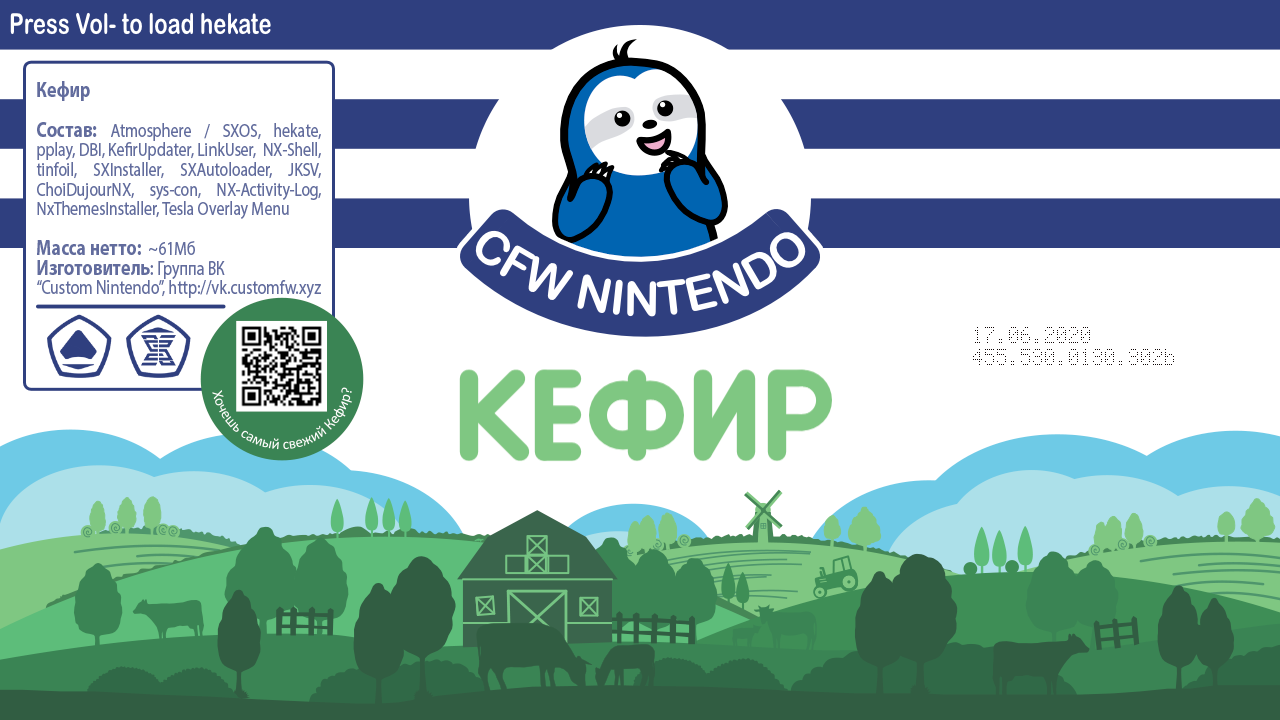
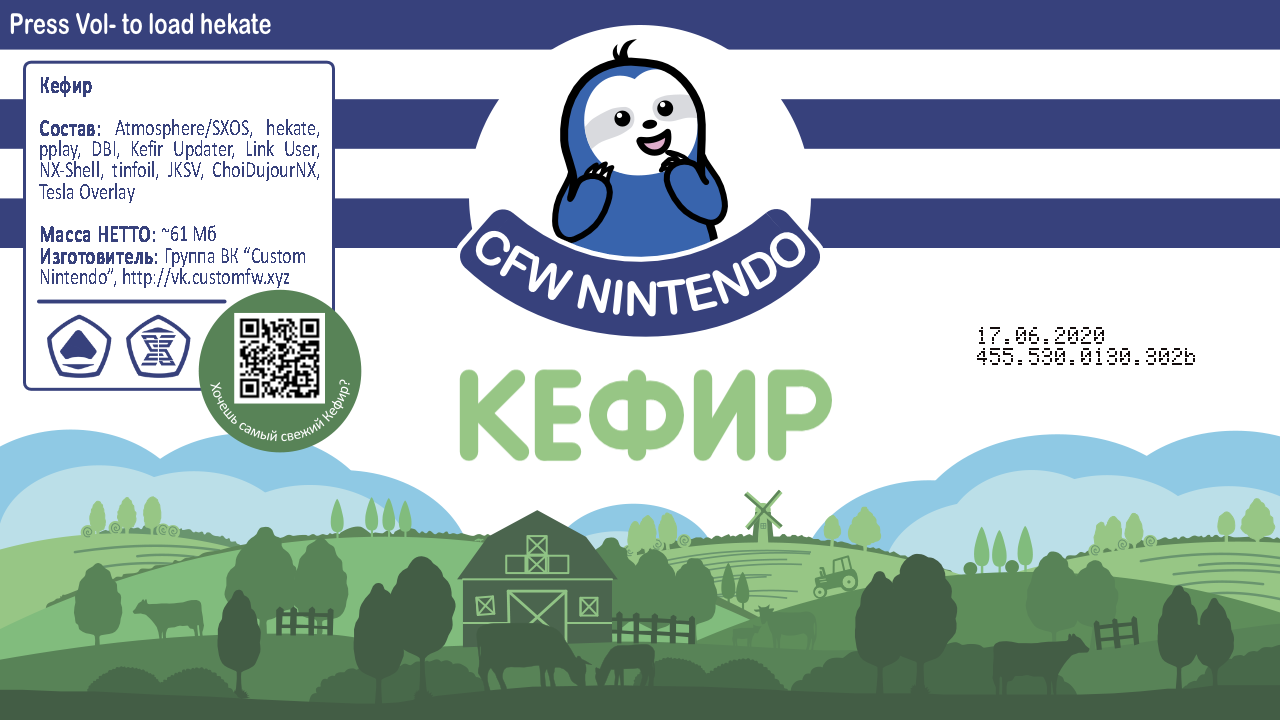
kefir455

diff --git a/kefir.html b/kefir.html
@@ -315,7 +315,7 @@ integrity="sha384-gfdkjb5BdAXd+lj+gudLWI+BXq4IuLW5IT+brZEZsLFm++aCMlF1V92rMkPaX4
 <nav class="toc">
     <header><h4 class="nav__title"><i class="fa fa-file-text"></i> Разделы</h4></header>
 <ul class="toc__menu" id="markdown-toc">
-  <li><a href="#kefir-453" id="markdown-toc-kefir-453">KEFIR 453</a>    <ul>
+  <li><a href="#kefir-455" id="markdown-toc-kefir-455">KEFIR 455</a>    <ul>
       <li><a href="#что-такое-кефир" id="markdown-toc-что-такое-кефир">Что такое кефир</a></li>
       <li><a href="#инструкция-по-установке-kefir" id="markdown-toc-инструкция-по-установке-kefir">Инструкция по установке kefir</a></li>
       <li><a href="#важная-информация" id="markdown-toc-важная-информация"><strong>Важная информация!</strong></a></li>
@@ -337,7 +337,7 @@ integrity="sha384-gfdkjb5BdAXd+lj+gudLWI+BXq4IuLW5IT+brZEZsLFm++aCMlF1V92rMkPaX4
 
 <hr />
 
-<h2 id="kefir-453">KEFIR 453</h2>
+<h2 id="kefir-455">KEFIR 455</h2>
 
 <p class="text-center"><img src="/images/kefir.png" alt="kefir" width="70%" /></p>
 
@@ -583,22 +583,19 @@ integrity="sha384-gfdkjb5BdAXd+lj+gudLWI+BXq4IuLW5IT+brZEZsLFm++aCMlF1V92rMkPaX4
 
 <h3 id="изменения-от-прошлой-версии">Изменения от прошлой версии</h3>
 
-<p>ВНИМАНИЕ! Рекомендуется использовать FAT32 на вашей карте памяти!
+<p>ВНИМАНИЕ! 
+Используйте FAT32 на вашей карте памяти!
 Удалите tinfoil с главного экрана и установите <code class="highlighter-rouge">Tinfoil [050000BADDAD0000].nsz</code>
 из папки <code class="highlighter-rouge">games</code>. Запускайте tinfoil только с главного экрана</p>
 
-<p>Если вы устанавливаете кефир НЕ через <code class="highlighter-rouge">install.bat</code>, удалите папку 
-<code class="highlighter-rouge">\atmosphere\contents\010000000007E51A</code> ДО начала обновления кефира!
-Если она есть. Если нет, не удаляйте.</p>
-
-<p>Пользователи SXOS, если вы ставите SXOS не через скрипт, не забудьте
-удалить автолоадер, он на 3.0.0 пока не работает (sxos/titles/00FF0012656180FF)</p>
-
 <ul>
-  <li>[Обновлено] SXOS 3.0.0 - исправлена ошибка с подтверждением EULA в новых играх,
-а так же подготовка к релизу новых чипов</li>
-  <li>[Обновлено] DBI v122 - Исправлена установка сильно сжатых NSZ по MTP</li>
-  <li>[Обновлено] Файл конфигурации для FreshHay с поддержкой прошивки 10.0.4</li>
+  <li>[Обновлено] Atmosphere 13 - полностью переписана экзосфера</li>
+  <li>[Обновлено] hekate 5.3.0 - поддержка Atmosphere 13</li>
+  <li>[Обновлено] SXOS 3.0.2 - исправлены баги, Autoloader снова должен работать (не
+ включен в состав кефира)</li>
+  <li>[Обновлено] JKSV 06.07.2020</li>
+  <li>[Обновлено] sys-con</li>
+  <li>[Обновлено] Логотип кефира (спасибо Vulpes Vulpeos)</li>
 </ul>
 
 <hr />
